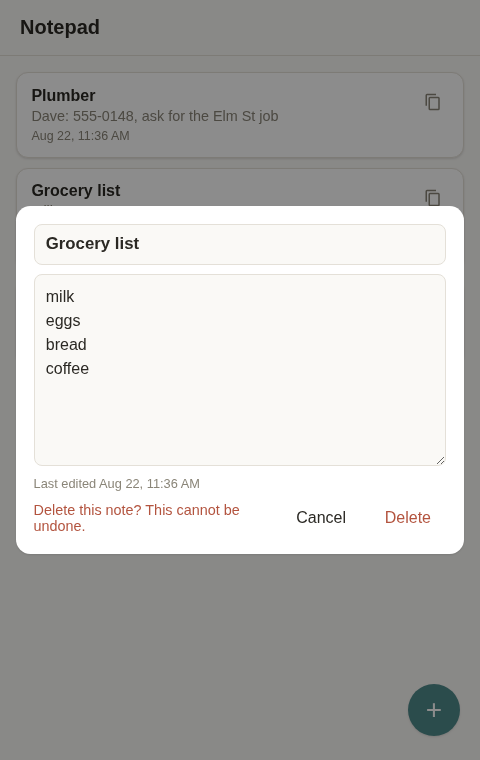
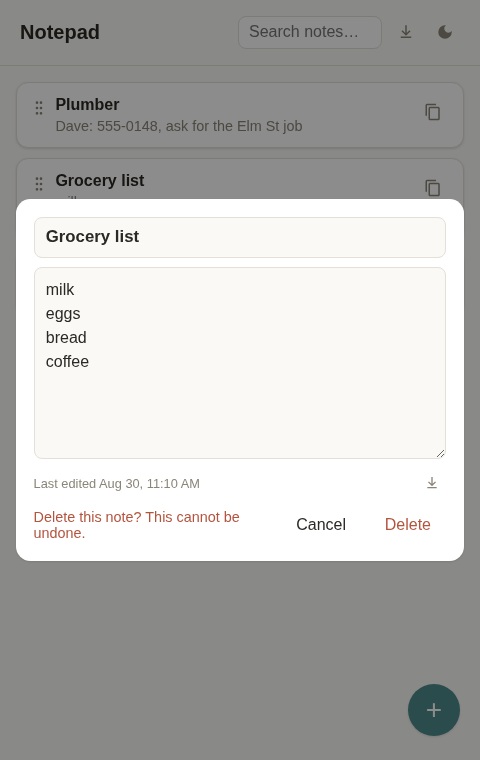
Refresh screenshots for search, dark mode, and export
The three existing screenshots predated the header redesign entirely —
none of them showed the search box, export button, or theme toggle
that now live in the header, and the drag-reorder handle wasn't
visible either. Retook all three against the current UI (same sample
notes, for continuity) and added two new ones: search filtering the
list live, and the dark theme. The note-editor shot also now shows the
per-note export icon that ships next to "Last edited".

Updated the README's screenshot table to match (two rows of three/two
so it doesn't get too wide).

Taken with Playwright driving headless Chromium against a throwaway
server + temp DB (not the real linkshr.db in this checkout), at the
same 480x760 viewport as the originals.

Claude-Session: https://claude.ai/code/session_012NyR5APnD4qFtWRo5nueZa

diff --git a/README.md b/README.md
@@ -11,9 +11,13 @@ install or provision beyond copying the binary over.
 
 ## Screenshots
 
-| Notes list | Editing a note | Delete confirmation |
+| Notes list | Search | Dark mode |
 |---|---|---|
-| ![Notes list](docs/screenshots/notes-list.png) | ![Note editor](docs/screenshots/note-editor.png) | ![Delete confirmation](docs/screenshots/delete-confirm.png) |
+| ![Notes list](docs/screenshots/notes-list.png) | ![Search](docs/screenshots/search.png) | ![Dark mode](docs/screenshots/dark-mode.png) |
+
+| Editing a note | Delete confirmation |
+|---|---|
+| ![Note editor](docs/screenshots/note-editor.png) | ![Delete confirmation](docs/screenshots/delete-confirm.png) |
 
 ## How it works
 
